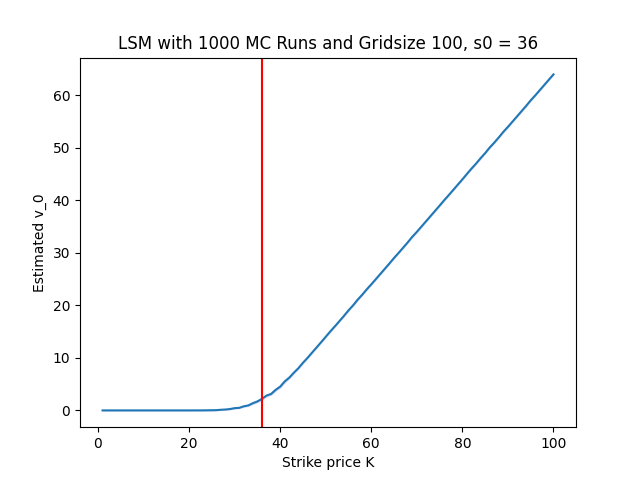
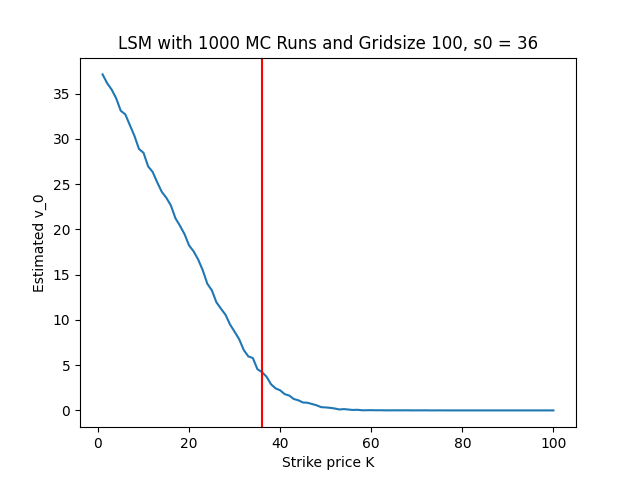
update vgl_K

diff --git a/vgl_K.py b/vgl_K.py
@@ -25,19 +25,18 @@ Stock = M.black_scholes()
  
 K = np.linspace(1,100,100)
 res_value = np.zeros_like(K)  
-sd = np.zeros_like(K)
-ci = np.zeros_like(K)
+var = np.zeros_like(K)
+
 z= 0 
 for k in K:
     print(k)
-    res_value[z], sd[z], ci[z] = longstaff_schwartz(Market= M,degree = degree,K = k)
+    res_value[z], var[z] = longstaff_schwartz(Market= M,degree = degree,K = k)
     #res_value[z] = LSM(Market=M,degree=degree,K=k)
     z = z+1
 
 plt.plot(K,res_value)
 plt.title('LSM with 1000 MC Runs and Gridsize 100, s0 = 36')
 plt.axvline(s0,color = 'red')
-plt.fill_between(K, (res_value-ci), (res_value+ci), color='b', alpha=.1)
 plt.xlabel('Strike price K')
 plt.ylabel('Estimated v_0')
 plt.savefig('picture.png')
